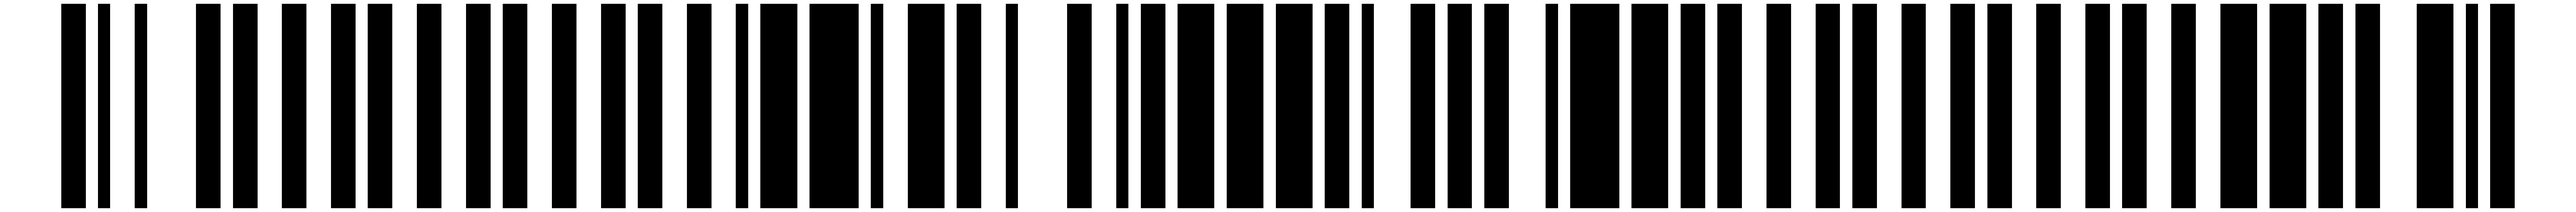
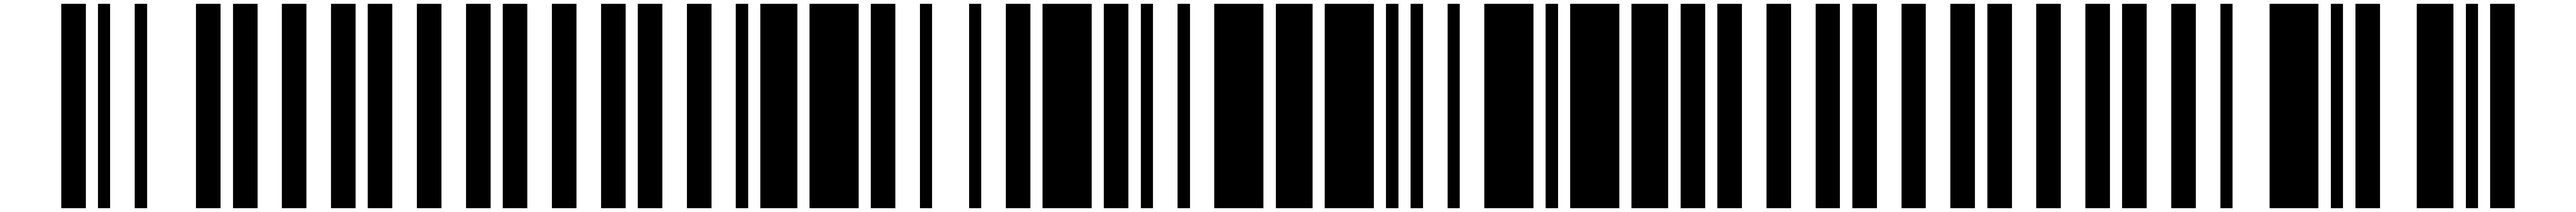
Update barcode numbers and add package.json and .gitignore files

Changed region(s): [[0.343, 0.0, 0.5925, 0.9902], [0.8419, 0.0, 0.9043, 0.9902]]

diff --git a/client/src/components/InvoicePDF.tsx b/client/src/components/InvoicePDF.tsx
@@ -1,5 +1,6 @@
+/* eslint-disable @typescript-eslint/no-unused-vars */
 /* eslint-disable @typescript-eslint/no-explicit-any */
-/* eslint-disable jsx-a11y/alt-text */
+
 // InvoicePDF.tsx
 import { Document, Page, View, StyleSheet, Text, Image } from '@react-pdf/renderer';
 import InvoicePDFSection1 from './InvoicePDFSection1';
@@ -96,7 +97,7 @@ export default function InvoicePDF({ data }: { data: any }) {
     return (
         <Document>
             <Page size={[1224, 792]} style={styles.page}>
-                <Image src={'/basiSctucutre.jpg'} style={styles.backgroundImage} />
+                {/* <Image src={'/basiSctucutre.jpg'} style={styles.backgroundImage} /> */}
                 {/* Title section */}
                 <View style={styles.titleContainer}>
                     <Text style={styles.titleText}>{data?.GIANATURALDIAMONDGRADINGREPORT?.GIAReportNumber}</Text>
